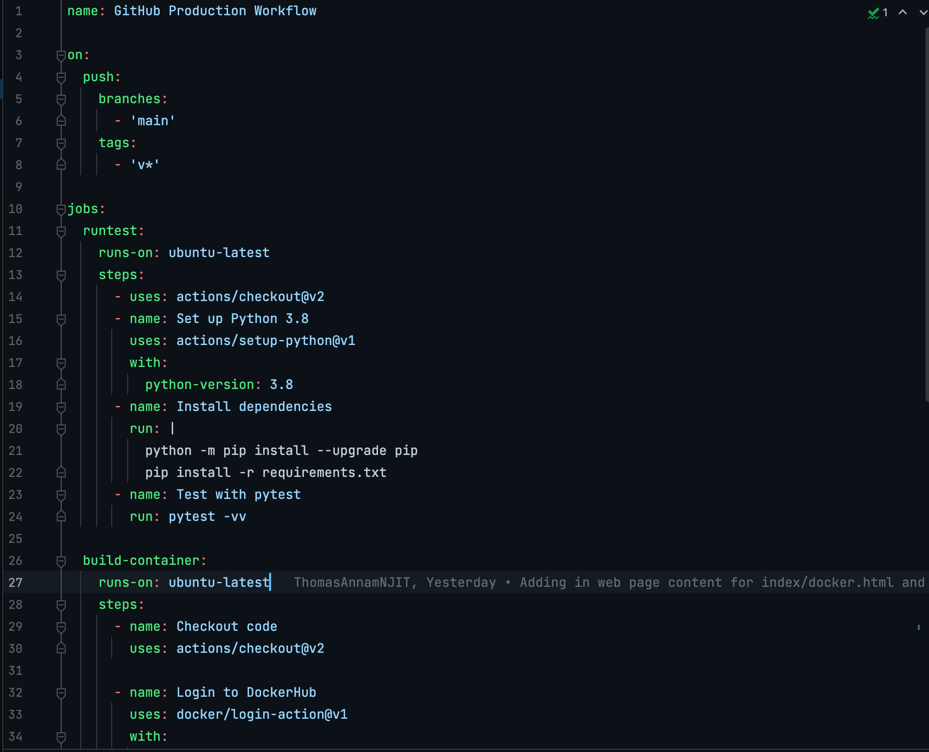
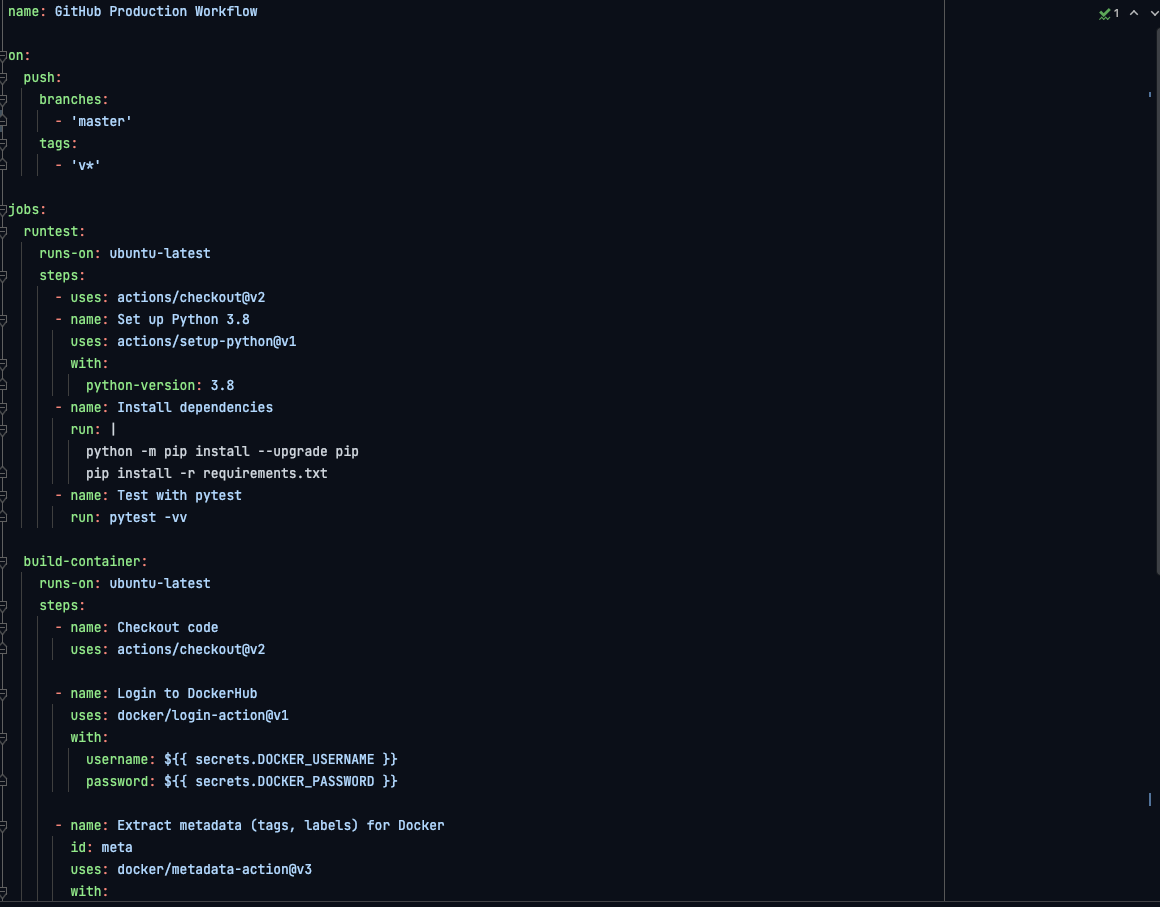
Updating readme, github workflows to point to master, and images in static folder

diff --git a/app/templates/python.html b/app/templates/python.html
@@ -33,7 +33,8 @@
         <div class="col-8">
             <p class="h3">Python Flask</p>
             <hr class="bg-danger border-2 border-top border-danger">
-            <p class="fw-normal"><strong>Flask</strong> is a popular Python MVC framework that allows developers to web
+            <p class="fw-normal"><strong>Flask</strong> is a popular Python MVC framework that allows developers to
+                build web
                 applications.
                 Flask is considered a light-weight framework given how flexible it is in terms of what libraries you're
                 able to choose from or not.
@@ -54,28 +55,23 @@
             <p class="h3">PyTest</p>
             <hr class="bg-danger border-2 border-top border-danger">
             <p class="fw-normal"><strong>PyTest</strong> is a testing framework in Python that allows you to write unit
-                tests.
+                tests. I was able to create all my content pages using Jinja2, which is templating engine in Python to render html content.
+                I first setup a Flask Blueprint as defined within this directory <strong>app/content/__init__.py</strong>, and created routes
+                for all the html pages and the locations to find the templates and static folder (also configured in the BluePrint) for <strong>render_templates</strong>
                 To get started with pytest, you must have a <em>pytest.ini</em> file, which allows you to give the path
                 to where your tests are located via
                 <em>testpaths</em>.
             </p>
             <p class="fw-normal">
                 Here's an example of a unit test using PyTest:
-            <figure>
-                <blockquote style="background: #eee;">
-                    <p class="fw-normal p-3">
-                        def test_request_index(client): <br/>
-                        """This makes the index page request""" <br/>
-                        response = client.get("/") <br/>
-                        assert response.status_code == 200
-                    </p>
-                </blockquote>
-            </figure>
-            The above test makes a GET request to the "/" endpoint
-            The above test first a GET request to the index page (i.e. /) of the application. It will then check to see
+            <p class="fw-normal p-3">
+                <img src="static/images/UnitTest.png" width="700" height="500" class="rounded" alt="...">
+
+            </p>
+            The above test makes a GET request to the index page (i.e. /) of the application. It will then check to see
             if it was successful in doing so with a response
-            status code of 200, which it means it was OK. Lastly, it will check it contains all the links within the
-            main navbar.
+            status code of 200, which it means it was successful. Lastly, it will check it contains all the links within the
+            main navbar from Home, Docker, GitHub, Python/Flask, and lastly CI/CD.
             </p>
             </p>
         </div>
@@ -111,74 +107,72 @@
             <img src="static/images/ProjectStructure.png" class="rounded" alt="...">
             <dl>
                 <dt class="col-sm-3">.github/workflows</dt>
-                <dd class="col-sm-9">This is where you define your GitHub workflows for your development/prod
-                    environment using GitHub Actions.
+                <dd class="col-sm-9">This is where you define your GitHub workflows for any environment using GitHub Actions.
                 </dd>
                 <dt class="col-sm-3">app/templates</dt>
                 <dd class="col-sm-9">
-                    This is where of all your HTML files will be placed, and that will be rendered when you add your
+                    This is where of all your HTML files will be placed, which will then be rendered when you add your
                     <em>template_folder</em> to your BluePrint configuration.
                 </dd>
                 <dt class="col-sm-3">app/static</dt>
                 <dd class="col-sm-9">
-                    This is where of all your static content will go such as css, js, and images.
+                    This is where of all your static content will go which includes css, js, and images.
                 </dd>
                 <dt class="col-sm-3">app/__init__.py</dt>
                 <dd class="col-sm-9">Initializes that this directory is a python package, and this file initializes a
-                    flask application and registers of all your blueprints (i.e. API).
+                    flask application and registers of all your associated blueprints (i.e. API).
                 </dd>
                 <dt class="col-sm-3 text-truncate">app/run.py</dt>
                 <dd class="col-sm-9">
-                    Runs the application
+                    Starts/runs the application.
                 </dd>
                 <dt class="col-sm-3">app/content/__init__.py</dt>
                 <dd class="col-sm-9">
-                    This is a python package which currently holds the BluePrint configuration for content pages
+                    This is a python package which currently holds the BluePrint configuration for content pages (i.e. your controller/API).
                 </dd>
                 <dt class="col-sm-3">tests</dt>
                 <dd class="col-sm-9">
-                    This is a python package where all of your unit tests will be placed under
+                    This is a python package where all of your unit tests should be placed.
                 </dd>
                 <dt class="col-sm-3">tests/content_pages_test.py</dt>
                 <dd class="col-sm-9">
-                    This is a unit test which tests all the routes that are defined in within the content pages
-                    (BluePrint)
+                    This is a python file which contains your unit tests for all your code. In this example, it will test all the routes that are defined within the content pages
+                    (BluePrint).
                 </dd>
                 <dt class="col-sm-3">tests/conftest.py</dt>
                 <dd class="col-sm-9">
-                    This setups any pytext fixtures such as a client for http applications
+                    This setups any pytext fixtures such as a client for http applications.
                 </dd>
                 <dt class="col-sm-3">.gitignore</dt>
                 <dd class="col-sm-9">
                     This is a special file for a GitHub repository which will essentially ignore any file that is listed
-                    under this and will never be part of the commit.
+                    under this and will never be part of a commit.
                 </dd>
                 <dt class="col-sm-3">docker-compose.yml</dt>
                 <dd class="col-sm-9">
-                    This will bring up all the services associated with your project. In this situation, it will build
-                    and run the image that is defined from your Dockerfile and also define a port
-                    mapping from port 80 on the host to port 5000 within the container. In addition, this will start the
-                    application by running "flask run"
+                    Orchestration file that contains the configuration to develop locally, it overrides the Dockerfile
+                    to run the flask development server instead of running the gunicorn server that is used for hosting
+                    on Heroku.
                 </dd>
                 <dt class="col-sm-3">Dockerfile</dt>
                 <dd class="col-sm-9">
-                    This serves as a blueprint to build a docker image for your flask application.
+                    File used to create an image to run in a container that runs the program.
                 </dd>
                 <dt class="col-sm-3">heroku.yml</dt>
                 <dd class="col-sm-9">
-                    Configuration file that will allow us to deploy our container to Heroku
+                    Configuration file that will allow us to deploy our container to Heroku.
                 </dd>
                 <dt class="col-sm-3">pytest.ini</dt>
                 <dd class="col-sm-9">
-                    Configuration file that tells pytest at which directory our python tests will be located
+                    Configuration file that tells pytest at which directory our python tests will be located at.
                 </dd>
                 <dt class="col-sm-3">README.md</dt>
                 <dd class="col-sm-9">
-                    This provides a high-level overview of the project with all of its components associated with it
+                    This provides a high-level overview of the project with all of its components associated with it.
                 </dd>
                 <dt class="col-sm-3">requirements.txt</dt>
                 <dd class="col-sm-9">
-                    This file is where you define all your python packages that you want as dependencies
+                    This file is where you define all your python packages that you want as dependencies for your project.
                 </dd>
             </dl>
         </div>

diff --git a/app/templates/ci-cd.html b/app/templates/ci-cd.html
@@ -68,10 +68,9 @@
             <hr class="bg-danger border-2 border-top border-danger">
             <p class="fw-normal"><strong>Github Actions</strong> is a service that GitHub provides in order for teams or
                 developers
-                to have the ability for CI/CD deployments via a pipeline. GitHub Actions are similar to other CI/CD
+                to have the ability for CI/CD deployments via a pipeline on GitHub. GitHub Actions are similar to other CI/CD
                 pipelines such as Jenkins, Travis CI, or Concourse.
-                GitHub Actions are compromised of workflows which are completely automated and configurable that you can
-                add to your GitHub Repository.
+                GitHub Actions are compromised of workflows that you can add to your GitHub Repository.
                 GitHub Actions is purely event based driven, which means your workflow responds to a specific event
                 after it has been triggered. Some events that your workflow can correspond to include the following:
             <ul class="px-5">
@@ -79,12 +78,12 @@
                 <li>PR creation</li>
                 <li>Scheduled Events (i.e. cron job)</li>
             </ul>
-            All workflows must be defined in YAML syntax, and defined under <em>.github/workflows</em>
+            All workflows must be defined in YAML syntax under <em>.github/workflows</em>
             </p>
         </div>
         <div class="col">
             <img src="static/images/GithubActions.png" width="400" height="400" class="rounded float-end" alt="...">
-            <p class="h3">Documentation</p>
+            <p class="h3">References</p>
             <div class="card">
                 <ul class="list-group list-group-flush">
                     <li class="list-group-item">
@@ -100,6 +99,11 @@
                            target="_blank"
                            class="link-primary">Production Workflow</a>
                     </li>
+                    <li class="list-group-item">
+                        <a href="https://www.martinfowler.com/articles/continuousIntegration.html"
+                           target="_blank"
+                           class="link-primary">CI/CD Article</a>
+                    </li>
                 </ul>
             </div>
         </div>
@@ -113,17 +117,17 @@
             <div class="container p-3">
                 <img src="static/images/DevWorkflow.png" class="rounded" alt="...">
                 <p class="text-justify">
-                    A workflow must respond to an event, as discussed above, this event can be anything that ranges from
+                    A workflow must respond to an event, as discussed in the section above, this event can be anything that ranges from
                     issues, PRs, or scheduled events.
                     This is defined in the <em>on</em> section of the YAML file of the workflow. The <em>on</em> section
                     as shown above says to trigger this workflow
-                    whenever a PR request is raised from any feature that wants to be <strong>merged</strong> into main.
+                    whenever a PR request is raised from any feature branch that wants to be <strong>merged</strong> into main.
                     <br/>
                     Github Actions are commands that are developed by you or the community to perform a task. Each
                     action is performed within a step, which are individual tasks of a workflow.
                     Each of these steps performed make up a job. In the diagram shown above, we are using an action that
-                    will allow us to deploy our application onto Heroku, where specify the configurations within
-                    our <strong>heroku.yml</strong> file with the build context being our <strong>Dockerfile</strong>
+                    will allow us to deploy our application onto Heroku, where we specify the configurations within
+                    our <strong>heroku.yml</strong> file with the build context being our <strong>Dockerfile</strong>.
                 </p>
             </div>
             <p class="h3">

diff --git a/app/templates/github.html b/app/templates/github.html
@@ -120,7 +120,7 @@
                 </dd>
                 <dt class="col-sm-3">Tags</dt>
                 <dd class="col-sm-9 p-2">
-                    A GitHub tag is reference to a specific point fora repository, which typically marks when you want
+                    A GitHub tag is reference to a specific point for a repository, which typically marks when you want
                     to release this code into production
                     or package your code as version for a library, such as to maven central repository or PIP.
                 </dd>

diff --git a/README.md b/README.md
@@ -10,3 +10,46 @@
 [![Development Workflow](https://github.com/ThomasAnnamNJIT/is601-project-one/actions/workflows/dev.yml/badge.svg)](https://github.com/ThomasAnnamNJIT/is601-project-one/actions/workflows/dev.yml)
 
 * [Developmental Deployment](https://thomasannam-is601-dev.herokuapp.com)
+
+## Setting up CI/CD
+
+The result of this will be that when you create a pull request to merge a branch to master, it will deploy to your
+heroku development app/dyno and when you merge or push to master on github, it will deploy the app to the production heroku
+app/dyno.
+### Instructions
+
+1. Clone this repo to your local (DO NOT FORK THIS REPO, IF YOU DO YOU HAVE TO ENABLE ACTIONS BEFORE ANYTHING RUNS)
+2. Create a new repo on your own Github account
+3. Change the origin by replacing it with your own new repo.  (Do not add a readme or any other file while creating the repository)
+4. Create an account with Heroku, create an app for production and an app for development
+5. Create a new repo in Docker hub
+
+#### Setup Docker and Heroku Credentials In the Repository Settings under Action -> Secret
+
+6. In your newly created Github repository, add new repository secrets for DOCKER_USERNAME, DOCKER_PASSWORD, HEROKU_API_KEY (Values are DOCKER_USERNAME: your docker hub username; DOCKER_PASSWORD: your docker hub password; HEROKU_API_KEY: API key from the heroku app)
+### GitHub Notes:  Set the action secrets repository in: -> settings -> actions -> secrets
+### Heroku Notes: Get the heroku API key from account in: -> applications -> create authorization button
+
+#### Change GitHub Actions Workflows for Dev and Prod
+
+6. Change line 42 to have your docker repo address in: .github/workflows/prod.yml
+7. change lines 58 to have your heroku app name in: .github/workflows/prod.yml
+8. change line 59 to have your heroku email in: .github/workflows/prod.yml
+9. change line 31 to have your heroku app name in .github/workflows/dev.yml
+10. change line 32 to have your heroku email in .github/workflows/dev.yml
+11. Push code to your local repo and check for any errors and fix any errors that appear when the workflow is running. You can check the workflow in the
+    actions.
+
+## Running Locally
+
+1. To Build with docker compose:
+   docker compose up --build
+2. To run tests, Lint, and Coverage report use this command: pytest --pylint --cov
+
+.pylintrc is the config for pylint, .coveragerc is the config for coverage and setup.py is a config file for pytest
+
+
+### Future Notes and Resources
+* https://flask-user.readthedocs.io/en/latest/basic_app.html
+* https://hackersandslackers.com/flask-application-factory/
+* https://suryasankar.medium.com/a-basic-app-factory-pattern-for-production-ready-websites-using-flask-and-sqlalchemy-dbb891cdf69f
